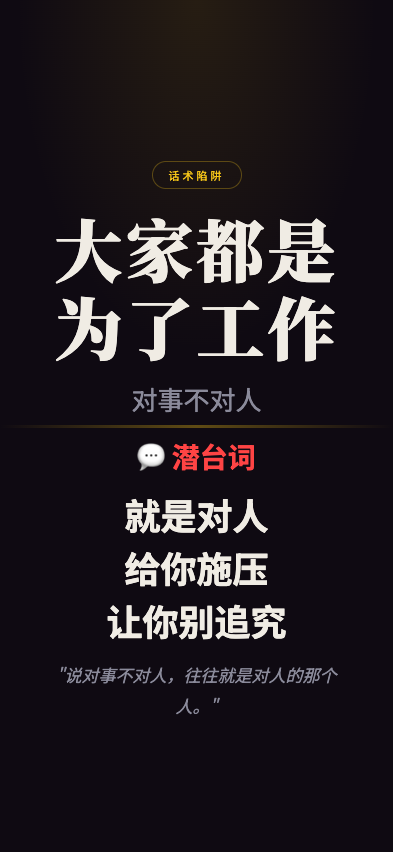
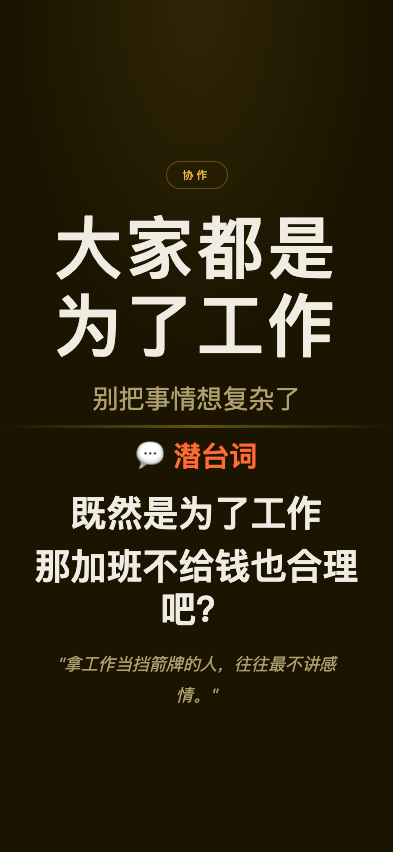
feat: 职场生存法则 screenshot - dajiadoushiweilegongzuo

diff --git a/wuliao-tools/tools/biz-speak/scenes/dajiadoushiweilegongzuo.html b/wuliao-tools/tools/biz-speak/scenes/dajiadoushiweilegongzuo.html
@@ -7,11 +7,11 @@
 <link href="https://fonts.googleapis.com/css2?family=Noto+Serif+SC:wght@400;700;900&family=Noto+Sans+SC:wght@300;400;700&display=swap" rel="stylesheet">
 <style>
   :root {
-    --bg: #0f0a12;
+    --bg: #1a1400;
     --text: #f0ece4;
-    --text-dim: #8a8a9a;
-    --gold: #f5c518;
-    --red: #ff4444;
+    --text-dim: #b0a070;
+    --gold: #f0c040;
+    --red: #ff6b35;
   }
   * { margin:0; padding:0; box-sizing:border-box; }
   html, body { width:100%; height:100%; overflow:hidden; }
@@ -24,11 +24,11 @@
   }
   body::before {
     content:''; position:absolute; top:0; left:0; right:0; height:45%;
-    background:radial-gradient(ellipse at 50% 0%, rgba(245,197,24,0.1) 0%, transparent 65%);
+    background:radial-gradient(ellipse at 50% 0%, rgba(240,192,64,0.1) 0%, transparent 65%);
     pointer-events:none; z-index:0;
   }
   .top { flex:1; display:flex; flex-direction:column; align-items:center; justify-content:flex-end; padding:4px 28px 8px; position:relative; z-index:1; }
-  .tag { font-size:11px; letter-spacing:3px; color:var(--gold); border:1px solid rgba(245,197,24,0.3); padding:5px 16px; border-radius:50px; margin-bottom:20px; }
+  .tag { font-size:11px; letter-spacing:3px; color:var(--gold); border:1px solid rgba(240,192,64,0.3); padding:5px 16px; border-radius:50px; margin-bottom:20px; }
   .main-title { font-family:'Noto Serif SC'; font-size:68px; font-weight:900; text-align:center; line-height:1.15; letter-spacing:3px; min-width:0; overflow-wrap:break-word; max-width:92%; }
   .sub-title { font-size:26px; color:var(--text-dim); text-align:center; margin-top:14px; }
   .divider { width:100%; height:3px; background:linear-gradient(90deg,transparent,var(--gold),transparent); opacity:0.35; flex-shrink:0; position:relative; z-index:1; }
@@ -41,19 +41,18 @@
 </head>
 <body>
   <div class="top">
-    <div class="tag">话术陷阱</div>
+    <div class="tag">协作</div>
     <div class="main-title">大家都是为了工作</div>
-    <div class="sub-title">对事不对人</div>
+    <div class="sub-title">别把事情想复杂了</div>
   </div>
   <div class="divider"></div>
   <div class="bottom">
     <div class="truth-label">💬 潜台词</div>
     <div class="truth-lines">
-      <div class="truth-line">就是对人</div>
-      <div class="truth-line">给你施压</div>
-      <div class="truth-line">让你别追究</div>
+      <div class="truth-line">既然是为了工作</div>
+      <div class="truth-line">那加班不给钱也合理吧？</div>
     </div>
-    <div class="quote">"说对事不对人，往往就是对人的那个人。"</div>
+    <div class="quote">"拿工作当挡箭牌的人，往往最不讲感情。"</div>
   </div>
 </body>
 </html>
